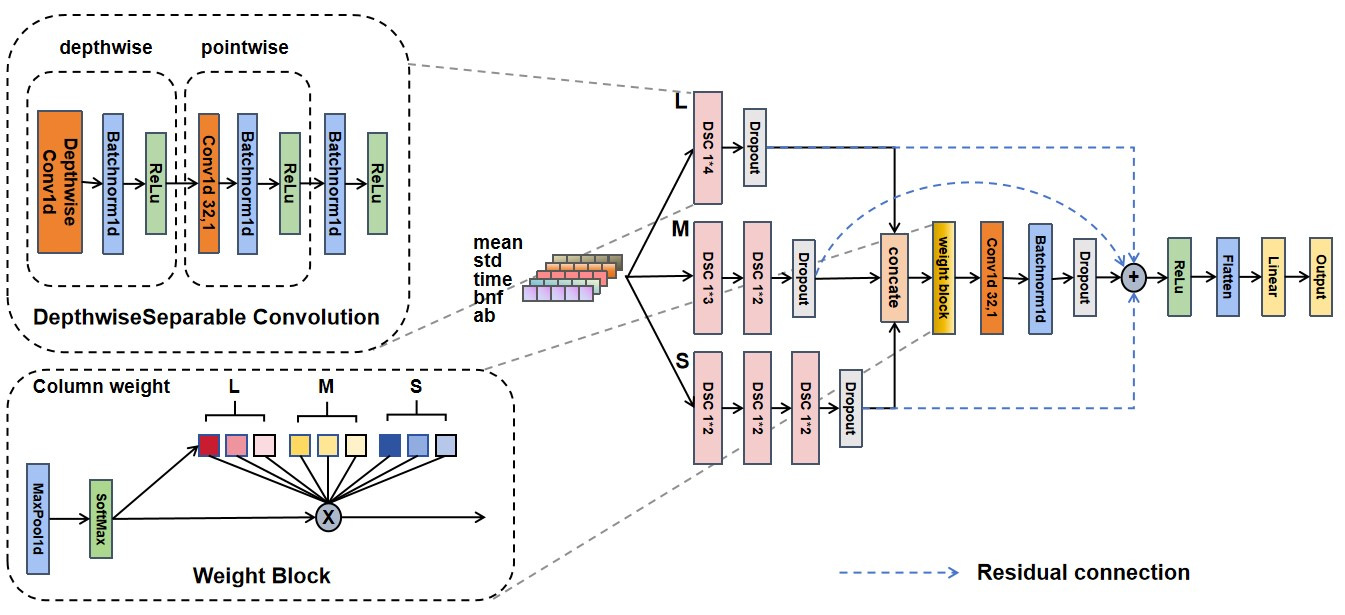
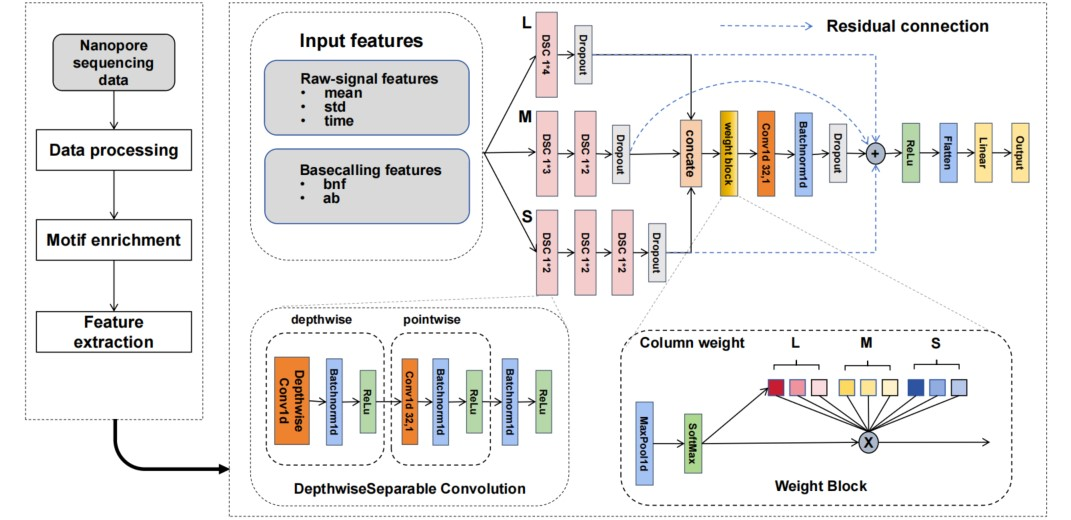
change name to Nanoident

diff --git a/README.md b/README.md
@@ -1,24 +1,21 @@
-# MotifNet
-A multi-column convolutional neural network model for typing and fine mapping of various bacterial methylation motifs using Nanopore Sequencing.
+# Nanoident
+A multi-column convolutional neural network model for typing (the identification of methylation types) and fine mapping (the identification of methylated base positions) of various bacterial methylation motifs using Nanopore Sequencing.
 
-## Workflow
+## Pipeline
 
-![示例图片](./fig/workflow.jpg)
-
-## Model Architecture
 ![示例图片](./fig/net.jpg )
 
 # Contents
 
-- [MotifNet](#motifnet)
+- [Nanoident](#nanoident)
 - [Contents](#contents)
 - [Prerequisites](#prerequisites)
 - [Data Preprocess](#data-preprocess)
-- [MotifNet train and test](#motifnet-train-and-test)
+- [Nanoident train and test](#nanoident-train-and-test)
   - [Get train and valid data](#get-train-and-valid-data)
   - [Get test data](#get-test-data)
   - [Change data form](#change-data-form)
-  - [Train and test MotifNet model](#train-and-test-motifNet-model)
+  - [Train and test Nanoident model](#train-and-test-nanoident-model)
   - [Do loocv evaluation](#do-loocv-evaluation)
 - [Data availability](#data-availability)
   - [Train Data](#train-data)
@@ -31,7 +28,7 @@ A multi-column convolutional neural network model for typing and fine mapping of
 
 # Prerequisites
 
-There are two environments to build, an R environment for data preprocessing and motif enrichment, and a python environment for MotifNet model training.
+There are two environments to build, an R environment for data preprocessing and motif enrichment, and a python environment for Nanoident model training.
 
 **R:**
 
@@ -39,7 +36,7 @@ follow the nanodisco (https://github.com/fanglab/nanodisco/tree/master) to build
 
 **python:**
 
-Use MotifNet/env/freeze.yml to generate the environment directly under conda.
+Use Nanoident/env/freeze.yml to generate the environment directly under conda.
 
 ```bash
 conda env create -f freeze.yml
@@ -66,8 +63,8 @@ First, we need to pre-process the necessary files from the original nanopore sig
 #DIFF_OUTPUT_DIR=$7 (The WGA and NAT files need to be subtracted)
 #MERGE_OUTPUT_DIR=$8 (Because of memory constraints, we need to preprocess in chunks first, and then we need to merge)
 #MERGE_NAME=$9
-chmod +x ./process/code/MotifNet_preprocess.sh
-bash ./process/code/MotifNet_preprocess.sh dataset/unzip_data/MinION_NO_WGA dataset/unzip_data/MinION_NO_NAT NO_WGA NO_NAT reference/NO/NO_sequence.fasta analysis/NO/preprocessed_subset analysis/NO/difference_subset analysis NO
+chmod +x ./process/code/Nanoident_preprocess.sh
+bash ./process/code/Nanoident_preprocess.sh dataset/unzip_data/MinION_NO_WGA dataset/unzip_data/MinION_NO_NAT NO_WGA NO_NAT reference/NO/NO_sequence.fasta analysis/NO/preprocessed_subset analysis/NO/difference_subset analysis NO
 ```
 
 To do motif enrichment:
@@ -78,8 +75,8 @@ To do motif enrichment:
 #DIFF_PATH=$2
 #MOTIF_ENRICH_OUTPUT_PATH=$3
 #REF_PATH=$4
-chmod +x ./process/code/MotifNet_enrich.sh
-bash ./process/code/MotifNet_enrich.sh NO analysis/NO_subset_difference.RDS analysis/NO reference/NO/NO_sequence.fasta
+chmod +x ./process/code/Nanoident_enrich.sh
+bash ./process/code/Nanoident_enrich.sh NO analysis/NO_subset_difference.RDS analysis/NO reference/NO/NO_sequence.fasta
 ```
 
 
@@ -90,16 +87,16 @@ To get basecall feature:
 #REF_PATH=$1
 #DATA_PATH=$2
 #OUTPUT_PATH=$3
-chmod +x ./process/code/MotifNet_readcount.sh
-bash ./process/code/MotifNet_readcount.sh /home/chenzh/Project1_1/nd_example2/home/nanodisco/reference/NO/NO_sequence.fasta /home/chenzh/Project1_1/nd_example2/home/nanodisco/analysis/NO/preprocessed_subset/NO_NAT.fasta /home/chenzh/readcount/NO_NAT_fq.tsv
+chmod +x ./process/code/Nanoident_readcount.sh
+bash ./process/code/Nanoident_readcount.sh /home/chenzh/Project1_1/nd_example2/home/nanodisco/reference/NO/NO_sequence.fasta /home/chenzh/Project1_1/nd_example2/home/nanodisco/analysis/NO/preprocessed_subset/NO_NAT.fasta /home/chenzh/readcount/NO_NAT_fq.tsv
 
 ```
 
-# MotifNet train and test
+# Nanoident train and test
 
 ## Get train and valid data
 ```bash
-Rscript ./code/MotifNet_traindata.R
+Rscript ./code/Nanoident_traindata.R
 ```
 You may need to change my results path in the function.
 
@@ -112,15 +109,15 @@ You may need to change my results path in the function.
 #OUTPUT_PATH=${3:-"analysis/NO/NO_motifs_my_train"}
 #Motif=${4:-"analysis/NO/NO_motifs_my_train"}
 #REF_PATH=${5:-"reference/NO/NO_sequence.fasta"}
-chmod +x ./code/MotifNet_testdata.sh
-bash ./code/MotifNet_testdata.sh
+chmod +x ./code/Nanoident_testdata.sh
+bash ./code/Nanoident_testdata.sh
 ```
 
 ## Change data form
 
 Since the data we are working with is in an R environment, we need to convert it to a pkl file that can be used in a python environment using data_from_R_to_python.ipynb.
 
-## Train and test MotifNet model
+## Train and test Nanoident model
 
 ```bash
 python ./model/train_test.py
@@ -175,4 +172,4 @@ The reference sequences of the bacteria samples are available at NCBI with the a
 
 # Pretrained model
 
-you can just use the model we provide in best_model/MotifNet.pt, you can run postprocess.py achieve the best results with  module.
+you can just use the model we provide in best_model/Nanoident.pt, you can run postprocess.py achieve the best results with  module.
